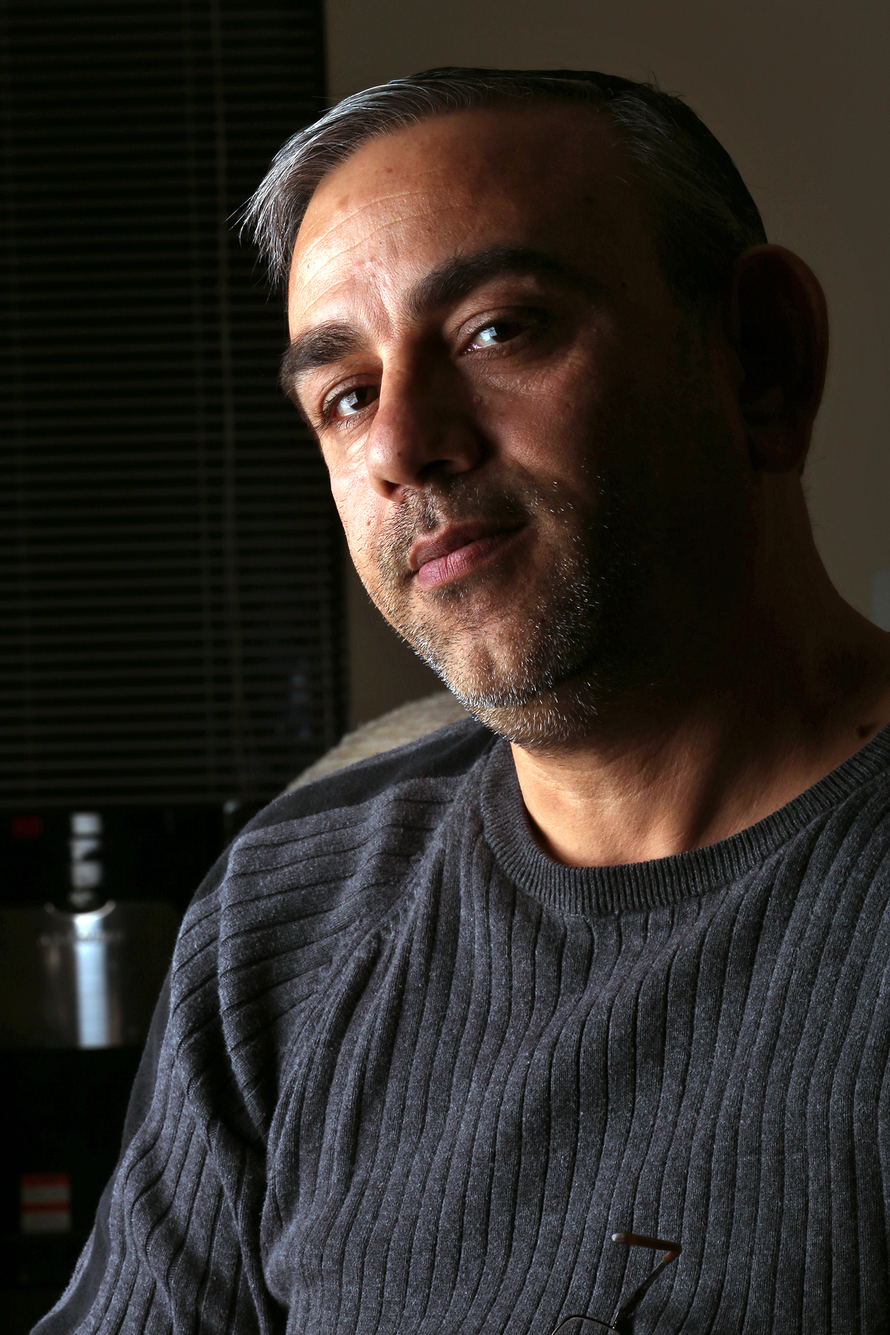
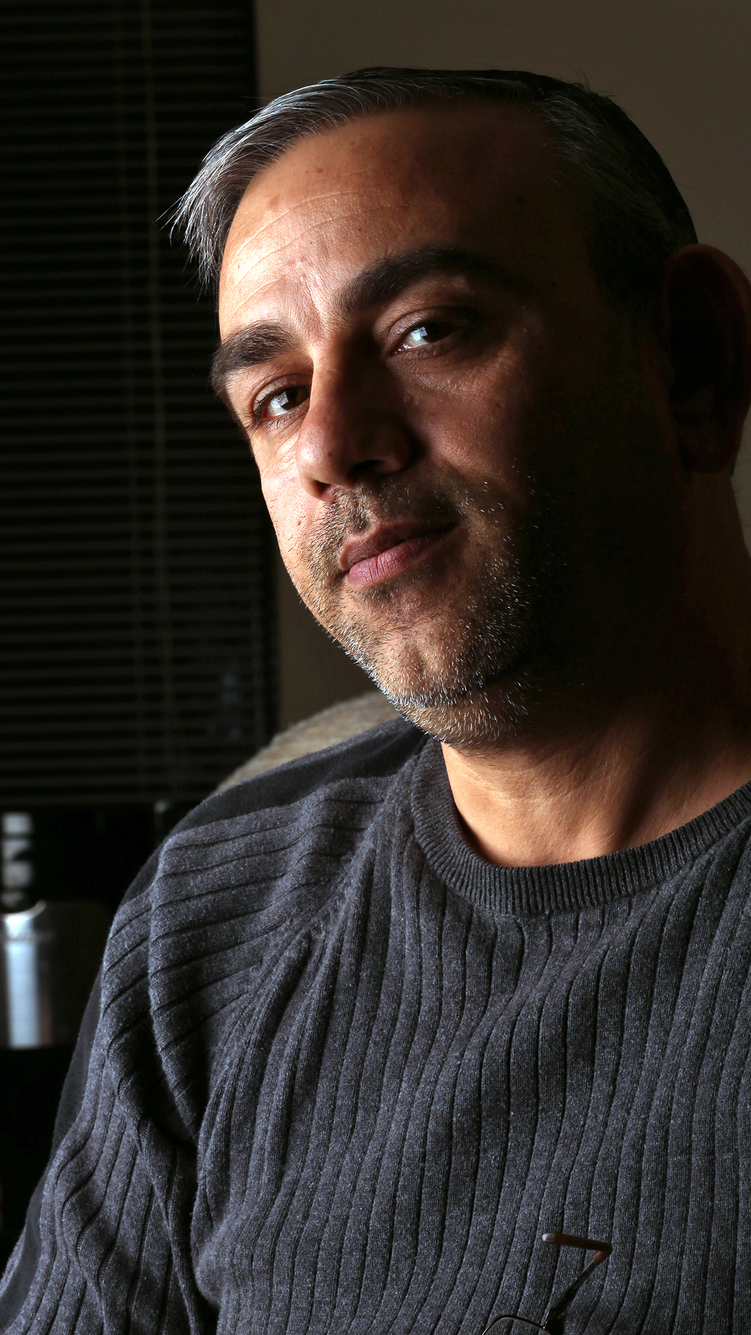
added mobile header images

diff --git a/css/ids.css b/css/ids.css
@@ -56,6 +56,7 @@ Assume anything not under a media query is for .col-xs */
 		font-weight: 300;
 		margin-bottom: 0em;
 		margin-top: 1em;
+		margin-left: 100px;
 	}
 
 	/*h2 is the italicized subhead.*/
@@ -145,6 +146,16 @@ Assume anything not under a media query is for .col-xs */
 
 	.nomarg {
 		margin: 0em;
+	}
+
+	.leftmarg {
+		margin-left: 20px;
+		margin-top: 0px;
+	}
+
+	.topmarg {
+		margin-top: 30px;
+		margin-bottom: 0px;
 	}
 
 	figure > img{
@@ -345,14 +356,6 @@ hr {
 	display: inline;
 }
 
-.breakmobile {
-	position: fixed; 
-  top: -50%; 
-  left: -50%; 
-  width: 200%; 
-  height: 200%;
-}
-
 
 /*contributors*/
 	.contributors{
@@ -477,7 +480,7 @@ hr {
 	height: 458px; 
   position: absolute; 
   text-align: left; 
-  top: 350px; 
+  top: 50px; 
   width: 100%; 
   color: white;
 }
@@ -512,16 +515,6 @@ hr {
 		visibility: hidden;
 	}
 
-
- .unsettled {
-	height: 458px; 
-  position: absolute; 
-  text-align: left; 
-  top: 50px; 
-  left: 50px;
-  width: 100%; 
-  font-size: 5em;
-}
 
 .show-mobile {
 	display: none;

diff --git a/index.html b/index.html
@@ -87,26 +87,27 @@
 <section id="rimis" data-type="background" data-speed="80"></section>
 </div>
 
-<div class="show-mobile"> 
-	<div class="break">
-	<figure class="nomarg">
+<div class="break show-mobile">
+	<figure class="topmarg">
 		<img src="img/fullfamily.jpg">
-	</figure>
-	</div>
-	<h1 class="unsettled">THE UNSETTLED</h1>
-	<div class="break">
-	<figure class="nomarg">
-		<img src="img/rakanv.jpg">
-	</figure>
-	<figure>
-		<img src="img/rimisv.jpg">
 	</figure>
 </div>
 
+<div class="container-fluid show-mobile"> 
+	<div class="row article">
+		<div class="col-md-offset-1 col-md-10 body-copy">
+			<h1 class="leftmarg">THE UNSETTLED</h1>
+		</div>
+	</div>
+</div>
+
+<div class="break show-mobile">
+	<figure>
+		<img src="img/fullfamilyh.jpg">
+	</figure>
+</div>
 
 <div class="container-fluid">
-	<a name="intro"></a>
-
 	<div class="row intro"> <!-- intro row -->
 	  	<div class="col-md-offset-1 col-md-8 subhead">
 	  		<h2>Forced to flee Syria and start over, a family adjusts to a state that doesn't want them </h2>
